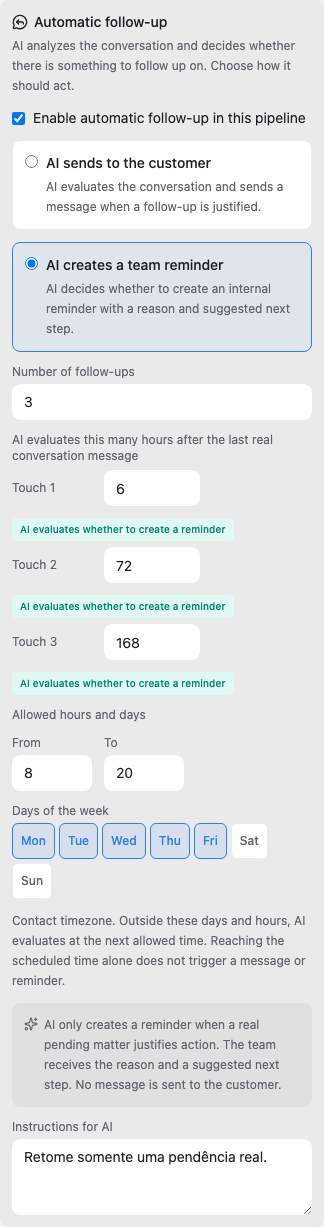
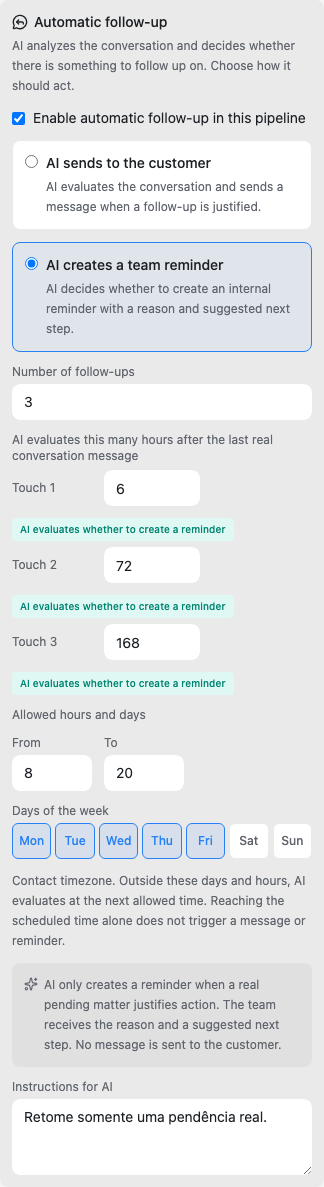
fix(crm): keep weekday controls aligned on narrow screens

diff --git a/app/javascript/dashboard/routes/dashboard/crm/components/CrmAiSettingsPanel.vue b/app/javascript/dashboard/routes/dashboard/crm/components/CrmAiSettingsPanel.vue
@@ -500,7 +500,7 @@ watch(
                   t('CRM_KANBAN.AI_SETTINGS.AUTO_FOLLOWUP.DAYS_LABEL')
                 }}</span>
                 <div
-                  class="flex flex-wrap gap-1"
+                  class="grid grid-cols-7 gap-1"
                   role="group"
                   :aria-label="
                     t('CRM_KANBAN.AI_SETTINGS.AUTO_FOLLOWUP.DAYS_LABEL')
@@ -514,7 +514,7 @@ watch(
                     :aria-label="
                       t(`CRM_KANBAN.AI_SETTINGS.AUTO_FOLLOWUP.DAYS_FULL.${day}`)
                     "
-                    class="h-9 rounded-md border px-2 text-xs font-medium"
+                    class="h-9 rounded-md border px-1.5 text-xs font-medium"
                     :class="
                       form.autoFollowup.allowedDays.includes(day)
                         ? 'border-n-brand bg-n-brand/10 text-n-brand'
